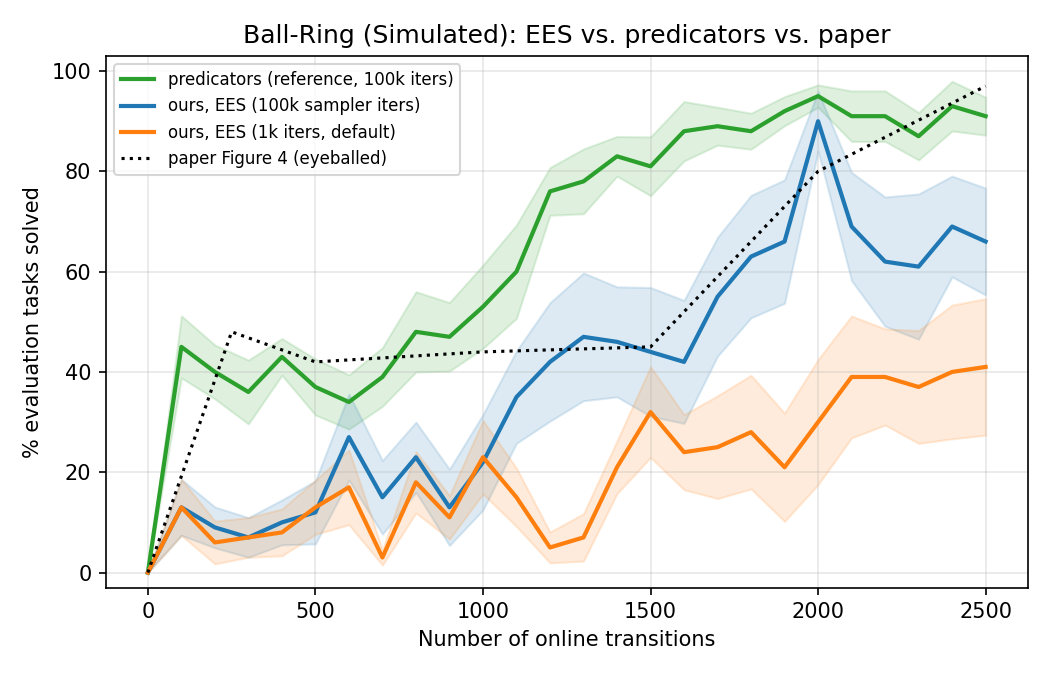
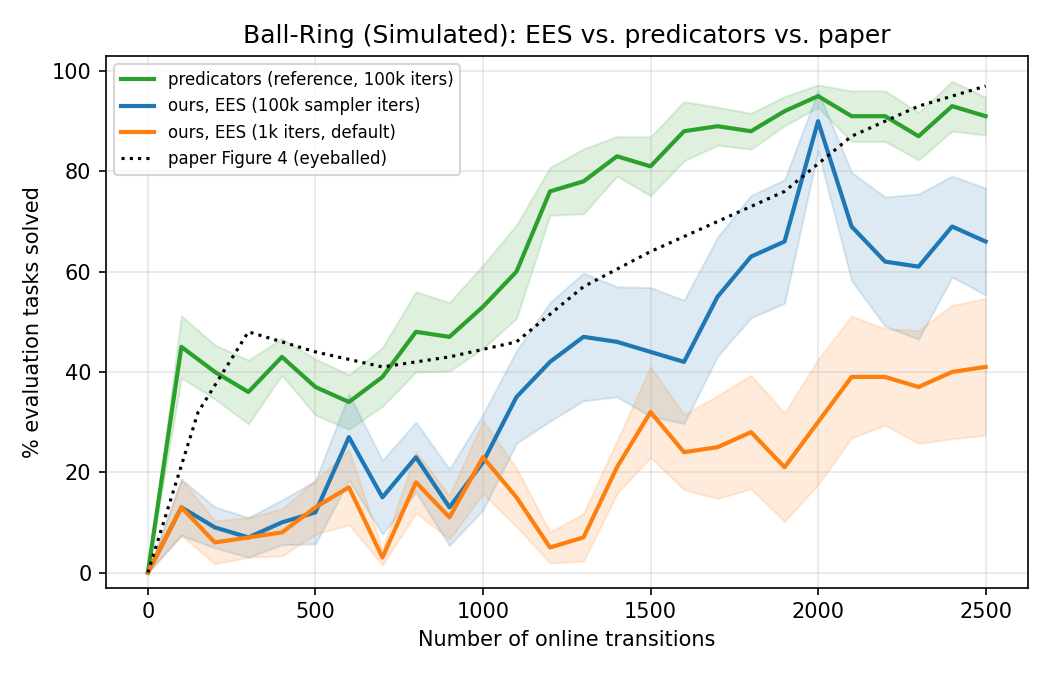
Ball-Ring plot: densely digitize the Figure 4 EES guide curve
The "paper Figure 4 (eyeballed)" dotted guide was built from only 7 points, which
matplotlib linearly interpolated into an artificial spike-then-flat-then-ramp that
didn't match the figure. Re-traced the green EES (Ours) mean line from the middle
Ball-Ring panel with 14 points -- steep rise to ~48 by ~300, gentle dip to ~41, a
~43-46 plateau through ~1100, then a steady climb to ~97 by 2500 -- and regenerated
the comparison plot. Still explicitly labeled eyeballed (+-5-10).

Claude-Session: https://claude.ai/code/session_01BMDkogqZTdmAUeBXEeMLU5

diff --git a/analysis/practice_makes_perfect/ballring_comparison.py b/analysis/practice_makes_perfect/ballring_comparison.py
@@ -21,7 +21,26 @@ matplotlib.use("Agg")
 import matplotlib.pyplot as plt  # noqa: E402
 
 # Ball-Ring EES read off Figure 4 (middle panel), transitions -> % solved (+-5-10).
-_FIGURE_4_EES = {0: 0, 250: 48, 500: 42, 1000: 44, 1500: 45, 2000: 80, 2500: 97}
+# Densely traced from the green "EES (Ours)" mean line: a steep rise to ~48 by ~300,
+# a gentle dip to ~41, a ~43-46 plateau through ~1100, then a steady climb to ~97 by
+# 2500 (the old sparse 7-point version linearly interpolated into an artificial
+# spike-then-flat-then-ramp that didn't match the figure).
+_FIGURE_4_EES = {
+    0: 0,
+    150: 32,
+    300: 48,
+    500: 44,
+    700: 41,
+    900: 43,
+    1100: 46,
+    1300: 57,
+    1500: 64,
+    1700: 70,
+    1900: 76,
+    2100: 87,
+    2300: 93,
+    2500: 97,
+}
 
 
 class BallRingComparison:
